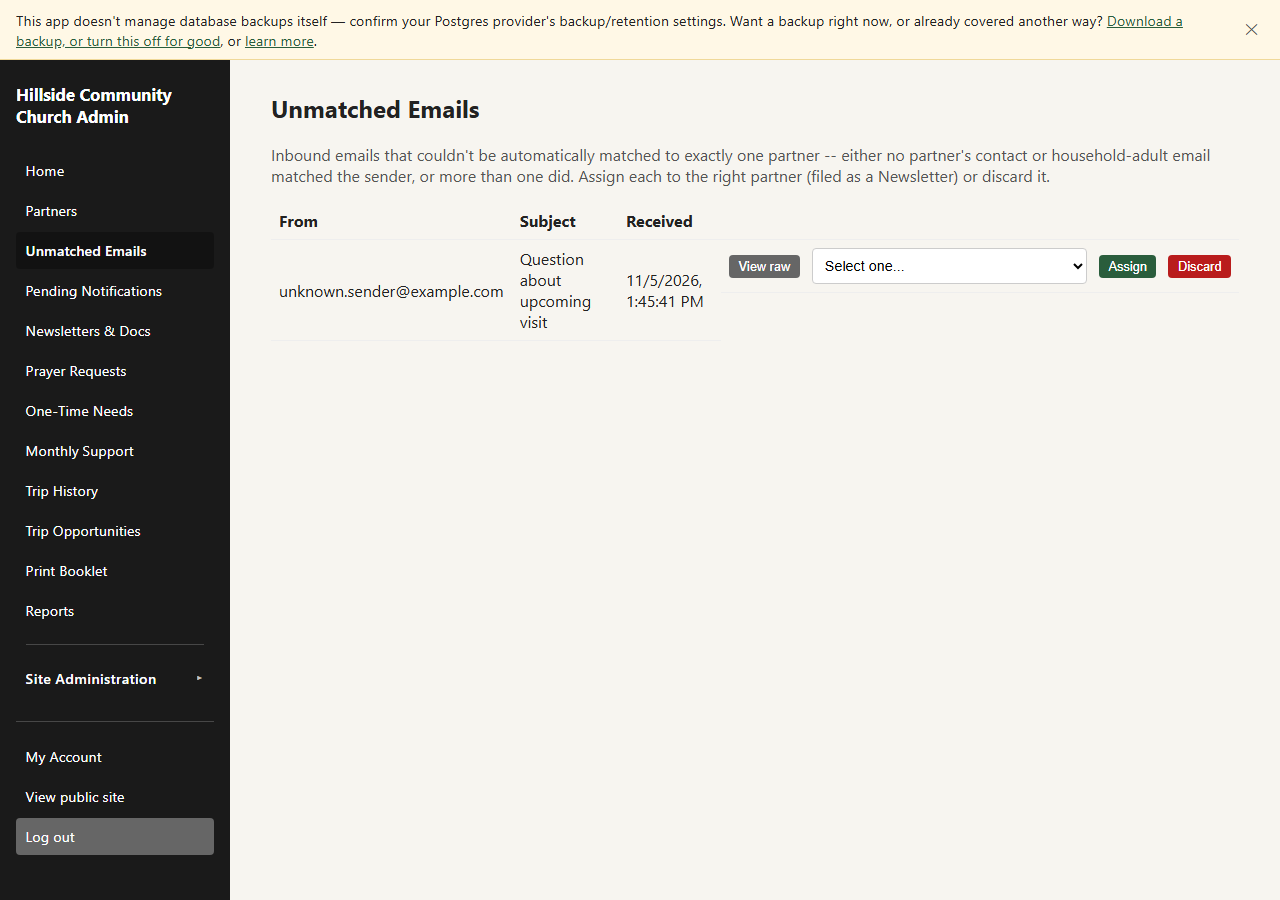
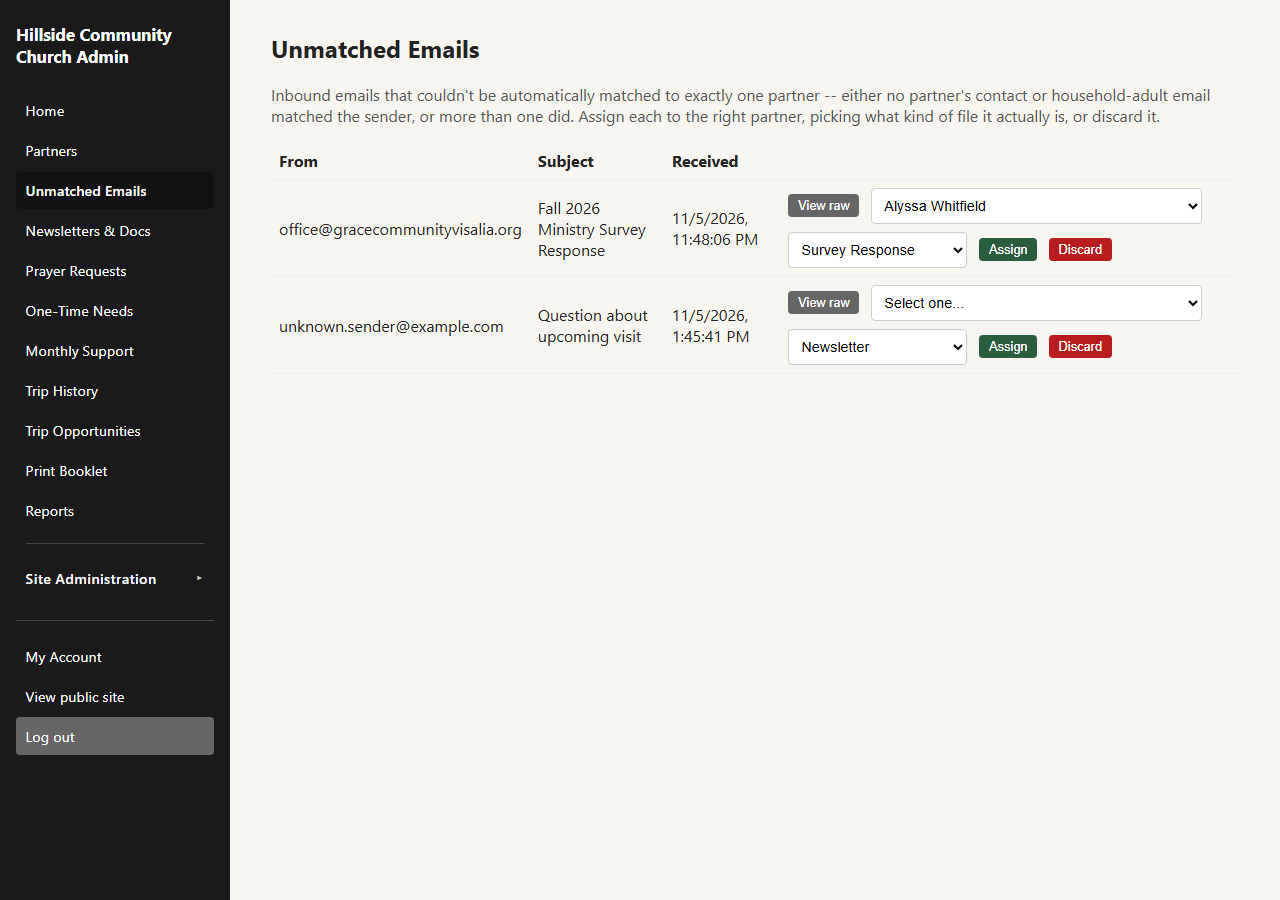
Let the admin pick a file kind when assigning an Unmatched Email (#206)
Assigning a queued inbound email to a partner no longer always files it
as a Newsletter -- the admin now picks from the same kind choices (and
a custom label for "Other") available anywhere else a PartnerFile gets
created, defaulting to Newsletter since that's still the common case.

diff --git a/frontend/src/pages/AdminInboundEmailQueue.jsx b/frontend/src/pages/AdminInboundEmailQueue.jsx
@@ -7,6 +7,7 @@ import {
   fetchCurrentUser,
 } from "../api/client.js";
 import PartnerSelect from "../components/admin/PartnerSelect.jsx";
+import { FILE_KINDS } from "../utils/fileKinds.js";
 
 // The review queue for inbound emails the webhook (see routes/inboundEmail.js)
 // couldn't automatically match to exactly one partner -- zero matches, or
@@ -25,8 +26,12 @@ export default function AdminInboundEmailQueue() {
   const [loading, setLoading] = useState(true);
   const [error, setError] = useState("");
   // Per-row UI state, keyed by email id -- the chosen partner in that
-  // row's picker, and which row (if any) is mid-request.
+  // row's picker, the chosen file kind (#206, defaults to "newsletter"
+  // same as the backend's own default), a free-typed label when kind is
+  // "other", and which row (if any) is mid-request.
   const [selections, setSelections] = useState({});
+  const [kindSelections, setKindSelections] = useState({});
+  const [customKindSelections, setCustomKindSelections] = useState({});
   const [busyId, setBusyId] = useState(null);
 
   function reload() {
@@ -55,10 +60,16 @@ export default function AdminInboundEmailQueue() {
       setError("Choose a partner before assigning.");
       return;
     }
+    const kind = kindSelections[email.id] || FILE_KINDS[0].value;
+    const customKind = customKindSelections[email.id] || "";
+    if (kind === "other" && !customKind.trim()) {
+      setError('Enter a kind label before assigning as "Other".');
+      return;
+    }
     setError("");
     setBusyId(email.id);
     try {
-      await assignInboundEmail(email.id, partnerId);
+      await assignInboundEmail(email.id, partnerId, kind, customKind);
       await reload();
     } catch (err) {
       setError(err.response?.data?.error || "Couldn't assign this email.");
@@ -92,7 +103,7 @@ export default function AdminInboundEmailQueue() {
       <p style={{ color: "#555" }}>
         Inbound emails that couldn't be automatically matched to exactly one partner -- either no partner's
         contact or household-adult email matched the sender, or more than one did. Assign each to the right
-        partner (filed as a Newsletter) or discard it.
+        partner, picking what kind of file it actually is, or discard it.
       </p>
 
       {error && (
@@ -131,6 +142,31 @@ export default function AdminInboundEmailQueue() {
                         disabled={busy}
                         style={{ width: "auto", display: "inline-block" }}
                       />
+                      <select
+                        aria-label="File kind"
+                        value={kindSelections[email.id] || FILE_KINDS[0].value}
+                        onChange={(e) => setKindSelections((s) => ({ ...s, [email.id]: e.target.value }))}
+                        disabled={busy}
+                        style={{ width: "auto", minWidth: "9.5rem" }}
+                      >
+                        {FILE_KINDS.map((k) => (
+                          <option key={k.value} value={k.value}>
+                            {k.label}
+                          </option>
+                        ))}
+                      </select>
+                      {(kindSelections[email.id] || FILE_KINDS[0].value) === "other" && (
+                        <input
+                          aria-label="Kind label"
+                          value={customKindSelections[email.id] || ""}
+                          onChange={(e) =>
+                            setCustomKindSelections((s) => ({ ...s, [email.id]: e.target.value }))
+                          }
+                          placeholder="e.g. Background Check"
+                          disabled={busy}
+                          style={{ width: "10rem" }}
+                        />
+                      )}
                       <button
                         type="button"
                         className="btn small"

diff --git a/backend/test/routes/inboundEmail.test.js b/backend/test/routes/inboundEmail.test.js
@@ -329,6 +329,65 @@ describe("the review queue -- GET/:id/raw/assign/discard", () => {
     const newsletters = await prisma.partnerFile.findMany({ where: { partnerId: partner.id } });
     assert.equal(newsletters.length, 1);
     assert.equal(newsletters[0].title, "Assign me", "the queued email's subject becomes the title");
+    assert.equal(newsletters[0].kind, "newsletter", "kind defaults to newsletter when omitted (#206)");
+  });
+
+  test("POST /:id/assign -- an explicit kind other than newsletter is honored (#206)", async () => {
+    const partner = await createPartner();
+    const created = await prisma.inboundEmail.create({
+      data: {
+        fromAddress: `survey@${FROM_DOMAIN}`,
+        subject: "Survey response",
+        bytes: Buffer.from("raw source"),
+        fileName: "inbound-survey.eml",
+      },
+    });
+
+    const res = await editor(`/api/inbound-email/${created.id}/assign`, {
+      method: "POST",
+      body: { partnerId: partner.id, kind: "survey_response" },
+    });
+    assert.equal(res.status, 201);
+
+    const files = await prisma.partnerFile.findMany({ where: { partnerId: partner.id } });
+    assert.equal(files.length, 1);
+    assert.equal(files[0].kind, "survey_response");
+  });
+
+  test('POST /:id/assign -- kind "other" requires a customKind, and stores it (#206)', async () => {
+    const partner = await createPartner();
+    const createdNoCustom = await prisma.inboundEmail.create({
+      data: {
+        fromAddress: `other1@${FROM_DOMAIN}`,
+        subject: "Something else",
+        bytes: Buffer.from("raw source"),
+        fileName: "inbound-other1.eml",
+      },
+    });
+    const rejected = await editor(`/api/inbound-email/${createdNoCustom.id}/assign`, {
+      method: "POST",
+      body: { partnerId: partner.id, kind: "other" },
+    });
+    assert.equal(rejected.status, 400, 'kind "other" with no customKind is rejected');
+    await prisma.inboundEmail.deleteMany({ where: { id: createdNoCustom.id } });
+
+    const created = await prisma.inboundEmail.create({
+      data: {
+        fromAddress: `other2@${FROM_DOMAIN}`,
+        subject: "Something else, with a label",
+        bytes: Buffer.from("raw source"),
+        fileName: "inbound-other2.eml",
+      },
+    });
+    const res = await editor(`/api/inbound-email/${created.id}/assign`, {
+      method: "POST",
+      body: { partnerId: partner.id, kind: "other", customKind: "Board Minutes" },
+    });
+    assert.equal(res.status, 201);
+
+    const files = await prisma.partnerFile.findMany({ where: { partnerId: partner.id, kind: "other" } });
+    assert.equal(files.length, 1);
+    assert.equal(files[0].customKind, "Board Minutes");
   });
 
   test("POST /:id/assign to a partner that no longer exists is a 400", async () => {

diff --git a/backend/src/routes/inboundEmail.js b/backend/src/routes/inboundEmail.js
@@ -9,6 +9,7 @@ const { isFeatureEnabled } = require("../utils/features");
 const { sendStoredFile } = require("../utils/fileResponse");
 const { notifyNewsletterCreated } = require("../utils/notifications");
 const { partnerRefSelect } = require("../utils/prismaIncludes");
+const { FILE_KINDS } = require("./fileKinds");
 
 // Mixed router (see #72): POST /postmark is called by Postmark directly,
 // not a logged-in admin -- it authenticates via HTTP Basic Auth (see
@@ -176,16 +177,30 @@ router.get("/:id/raw", async (req, res, next) => {
   }
 });
 
-const assignSchema = z.object({ partnerId: z.string() });
+// kind defaults to "newsletter" when omitted (#206) -- that's still the
+// overwhelming majority of what actually arrives, and keeps any other
+// existing caller of this endpoint working unchanged. Same
+// customKind-required-when-"other" rule as partnerFiles.js's own
+// metaSchema, mirrored here rather than reusing that schema directly
+// since this route only ever sets these two fields, not the rest of
+// PartnerFile's create shape.
+const assignSchema = z
+  .object({
+    partnerId: z.string(),
+    kind: z.enum(FILE_KINDS).default("newsletter"),
+    customKind: z.string().optional().nullable(),
+  })
+  .refine((data) => data.kind !== "other" || Boolean(data.customKind?.trim()), {
+    message: 'customKind is required when kind is "other"',
+    path: ["customKind"],
+  });
 
 // POST /api/inbound-email/:id/assign (editor or admin, matches
-// partnerFiles.js's own create-role gating). Always files as a
-// newsletter -- that's what the overwhelming majority of inbound mail
-// actually is, and an admin who finds one mis-filed just edits `kind`
-// via PartnerFile's normal PUT afterward.
+// partnerFiles.js's own create-role gating). Files as whichever kind the
+// admin picked (#206) -- defaults to newsletter if the caller omits it.
 router.post("/:id/assign", requireRole("admin", "editor"), async (req, res, next) => {
   try {
-    const { partnerId } = assignSchema.parse(req.body);
+    const { partnerId, kind, customKind } = assignSchema.parse(req.body);
 
     // Must be on too -- not just "inboundEmail" (checked by the
     // router.use above), since an admin shouldn't be able to file a row
@@ -209,7 +224,8 @@ router.post("/:id/assign", requireRole("admin", "editor"), async (req, res, next
     const created = await prisma.partnerFile.create({
       data: {
         partnerId,
-        kind: "newsletter",
+        kind,
+        customKind: kind === "other" ? customKind : null,
         title: record.subject,
         receivedDate: record.receivedAt,
         bytes: record.bytes,

diff --git a/frontend/src/api/client.js b/frontend/src/api/client.js
@@ -228,16 +228,17 @@ export async function sendTestEmail() {
 }
 
 // The review queue -- inbound emails Postmark couldn't automatically match
-// to a partner. assignInboundEmail files it as a newsletter-kind
-// PartnerFile against the chosen partner and removes it from the queue;
+// to a partner. assignInboundEmail files it as a PartnerFile of the
+// chosen kind (#206, defaults to "newsletter" server-side if omitted)
+// against the chosen partner and removes it from the queue;
 // discardInboundEmail removes it without filing anything.
 export async function fetchPendingInboundEmails() {
   const { data } = await api.get("/inbound-email");
   return data;
 }
 
-export async function assignInboundEmail(id, partnerId) {
-  const { data } = await api.post(`/inbound-email/${id}/assign`, { partnerId });
+export async function assignInboundEmail(id, partnerId, kind, customKind) {
+  const { data } = await api.post(`/inbound-email/${id}/assign`, { partnerId, kind, customKind });
   return data;
 }
 

diff --git a/frontend/src/index.css b/frontend/src/index.css
@@ -669,8 +669,8 @@ a {
 .table-actions {
   display: flex;
   align-items: center;
-  gap: 0.75rem;
-  white-space: nowrap;
+  flex-wrap: wrap;
+  gap: 0.5rem 0.75rem;
 }
 
 .admin-shell label {

diff --git a/USER_GUIDE.md b/USER_GUIDE.md
@@ -931,11 +931,13 @@ email arrives:
 
 **Unmatched Emails** (its own nav item, next to Partners) lists what's
 waiting: From, Subject, Received. **View raw** opens the original email.
-**Assign** (editor or admin) picks the right partner and files it as a
-Newsletter on that partner, the same outcome as if it had matched
-automatically. **Discard** (admin only) removes it permanently with a
-confirmation prompt — for spam or anything that was never meant to be
-filed at all.
+**Assign** (editor or admin) picks the right partner *and* what kind of
+file it actually is — Newsletter, Survey Response, Signed Policy, Email
+Communication, Office Document, or Other (with your own label) — the same
+choices as uploading any other file on a partner's own page, defaulting to
+Newsletter since that's what most inbound mail turns out to be. **Discard**
+(admin only) removes it permanently with a confirmation prompt — for spam
+or anything that was never meant to be filed at all.
 
 ![The Unmatched Emails queue, waiting on review](docs/assets/screenshots/unmatched-emails.png)
 

diff --git a/CHANGELOG.md b/CHANGELOG.md
@@ -14,7 +14,12 @@ see [UPGRADING.md](UPGRADING.md) for the actual update steps.
 
 ## [Unreleased]
 
-Nothing yet.
+Assigning an email from the **Unmatched Emails** queue to a partner now
+lets you pick what kind of file it actually is — Newsletter, Survey
+Response, Signed Policy, Email Communication, Office Document, or Other
+with your own label — the same choices as uploading any file directly,
+instead of always filing it as a Newsletter. Newsletter stays the
+default, since that's still what most inbound mail turns out to be.
 
 ## [1.3.0] - 2026-11-06
 
